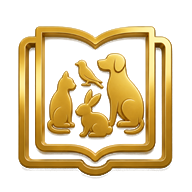
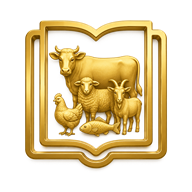
2.1 — איקון בע״ח חדש + סידור פריסת הכרטיסים בשער
האיקון: ״בעלי חיים2.png״ עבר את אותו עיבוד של personal.png ב-1.2 — מפתח על
חום הזהב (r−b, סף 70 שנמדד מהאיקונים הקיימים), חיתוך לתוכן, 192×192 עם שוליים
בטווח של שאר icon/cats/*.png (144×153 בשוליים 24/20).

הפריסה: ב-auto-fit יצאו במסך רחב ארבע עמודות, כלומר 4+3 עם שורה שנייה קטועה.
ששת המדריכים הם מספר קבוע, ולכן מספר עמודות קבוע — 3 מעל 620px, 2 מתחת — ששתיהן
מחלקות את השש בדיוק. האזור האישי ודפי ה-HTML של המשתמש ירדו לשורה שנייה משלהם
(#extraGrid) מתחת למפריד, כך שהוספת דף לא קוטעת יותר את שורת המדריכים.
רוחב רשת הכרטיסים ושורת החיפוש יושרו ל-640px.

diff --git a/shell/router.css b/shell/router.css
@@ -153,13 +153,30 @@ html, body {
   margin: 0 0 18px;
   text-align: center;
 }
+/* ששת המדריכים הם מספר קבוע, ולכן מספר עמודות קבוע ולא auto-fit: ב-auto-fit יצאו
+   ארבע עמודות במסך רחב, כלומר שורה של 4 ושורה קטועה של 2 (ועם האזור האישי - 4+3).
+   2 או 3 עמודות מחלקות את השש בדיוק, בכל רוחב מסך. */
 .cards {
   display: grid;
-  /* מותאם לרוחב המסך: לא פחות מ-120px ולא יותר מ-170px לכרטיס */
-  grid-template-columns: repeat(auto-fit, minmax(clamp(120px, 20vw, 170px), 1fr));
+  grid-template-columns: repeat(2, minmax(0, 1fr));
   gap: clamp(10px, 1.6vw, 16px);
-  max-width: 760px;
+  max-width: 640px;
   margin: 0 auto;
+}
+@media (min-width: 620px){
+  .cards { grid-template-columns: repeat(3, minmax(0, 1fr)); }
+}
+/* מפריד עדין בין שורת המדריכים לשורה של המשתמש עצמו */
+.cards-sep {
+  display: flex; align-items: center; gap: 10px;
+  max-width: 640px;
+  margin: 22px auto 14px;
+  color: var(--color-on-surface-ghost);
+  font-size: .8em;
+}
+.cards-sep::before, .cards-sep::after {
+  content: ""; flex: 1 1 auto; height: 1px;
+  background: var(--color-outline-faint);
 }
 .card {
   background: var(--color-surface);
@@ -203,7 +220,7 @@ html, body {
 #homeSearchWrap {
   position: relative;
   display: flex; align-items: center; gap: 8px;
-  max-width: 760px;
+  max-width: 640px;   /* יישור לרוחב רשת הכרטיסים */
   margin: 0 auto 20px;
   padding: 6px 14px 6px 6px;
   background: var(--color-surface);

diff --git a/index.html b/index.html
@@ -34,6 +34,12 @@
     <div class="card" data-cat="flora"><img class="icon-img" src="icon/cats/flora.png" alt="" onerror="this.outerHTML='&lt;span class=\'icon\'&gt;🌿&lt;/span&gt;'"><span class="label">צומח בתנ״ך</span></div>
     <div class="card" data-cat="domem"><img class="icon-img" src="icon/cats/domem.png" alt="" onerror="this.outerHTML='&lt;span class=\'icon\'&gt;💎&lt;/span&gt;'"><span class="label">דומם בתנ״ך</span></div>
     <div class="card" data-cat="beithamikdash"><img class="icon-img" src="icon/cats/beithamikdash.png" alt="" onerror="this.outerHTML='&lt;span class=\'icon\'&gt;🏛&lt;/span&gt;'"><span class="label">בית המקדש</span></div>
+  </div>
+
+  <!-- שורה שנייה: מה ששייך למשתמש עצמו (האזור האישי + דפי HTML שהוא הוסיף).
+       הופרדה מששת המדריכים כדי ששורת המדריכים תישאר 3+3 מלאה ולא תיקטע באמצע. -->
+  <div class="cards-sep"><span>שלי</span></div>
+  <div class="cards" id="extraGrid">
     <div class="card" id="personalCard"><img class="icon-img" src="icon/cats/personal.png" alt="" onerror="this.outerHTML='&lt;span class=\'icon\'&gt;🗂&lt;/span&gt;'"><span class="label">האזור האישי שלי</span></div>
   </div>
   <div id="copyrightFooter">כל הזכויות שמורות לחד בדרא</div>

diff --git a/shell/home.js b/shell/home.js
@@ -105,9 +105,11 @@ document.getElementById('addHtmlSave').addEventListener('click', async () => {
 });
 
 // ---- ריבועים בעמוד השער עבור דפי HTML שנשמרו ----
-const cardsGrid = document.getElementById('cardsGrid');
+// מאז 2.12.0 הכרטיסים האלה יושבים בשורה השנייה (#extraGrid) יחד עם האזור האישי,
+// כדי ששורת ששת המדריכים תישאר 3+3 מלאה ולא תיקטע בכל פעם שנוסף דף.
+const extraGrid = document.getElementById('extraGrid');
 async function renderCustomPageCards(){
-  cardsGrid.querySelectorAll('.card[data-custom-page]').forEach(el => el.remove());
+  extraGrid.querySelectorAll('.card[data-custom-page]').forEach(el => el.remove());
   const index = await getHtmlPagesIndex();
   const anchor = document.getElementById('personalCard');   // הכרטיסים נכנסים לפני "האזור האישי"
   index.forEach(name => {
@@ -116,7 +118,7 @@ async function renderCustomPageCards(){
     card.setAttribute('data-custom-page', name);
     card.innerHTML = `<span class="icon">📄</span><span class="label">${esc(name)}</span>`;
     card.addEventListener('click', () => openCustomHtmlPage(name));
-    cardsGrid.insertBefore(card, anchor);
+    extraGrid.insertBefore(card, anchor);
   });
 }
 
